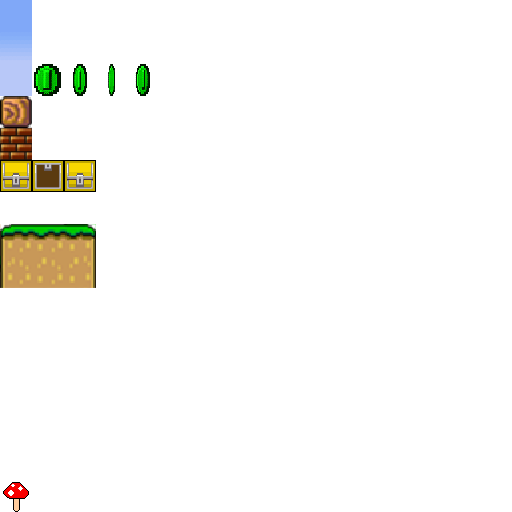
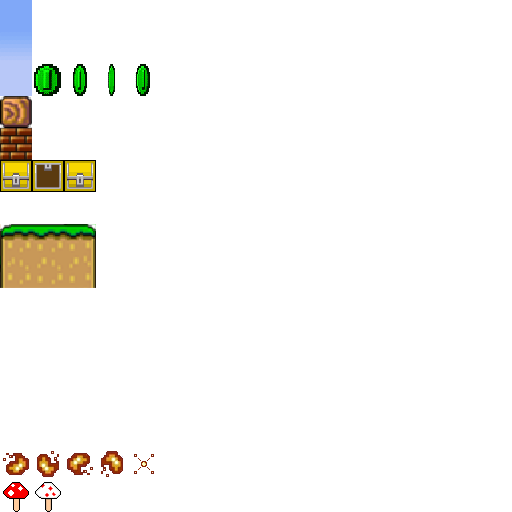
chapter38 appear fire kinoko and be fire mario.

Changed region(s): [[0.0, 0.875, 0.25, 1.0]]

diff --git a/main.js b/main.js
@@ -37,8 +37,8 @@ var gMapChip = [
   [255,255,255,255,255,255,255,255,255,255,255,255,255,64,64,255,255,255,64,64,255,255,255,255,255,255,64,255,64,255,255,255,255,255,255,64,255,255,255,64,255,255,255,255,64,255,255,255,255,64,255,255,255,64,255,255,64,64,255,255,255,64,64,255,255,255,255,255,255,64,255,64,255,255,255,255,255,255,64,255,255,255,64,255,255,255,255,255,255,255,255,255,255,255,255,255,255,255,255,255],
   [255,255,255,255,255,33,33,33,255,255,255,255,255,64,255,64,255,64,255,64,255,255,255,255,255,64,255,255,255,64,255,255,255,255,255,64,255,255,255,64,255,255,255,255,64,255,255,255,255,64,255,255,255,64,255,255,64,255,64,255,64,255,64,255,255,255,255,255,64,255,255,255,64,255,255,255,255,255,64,255,255,255,64,255,255,255,255,255,255,255,255,255,255,255,255,255,255,255,255,255],
   [255,255,255,255,255,255,255,255,255,255,255,255,255,64,255,255,64,255,255,64,255,255,255,255,64,255,255,255,255,255,64,255,255,255,255,64,64,64,64,64,255,255,255,255,64,255,255,255,255,64,255,255,255,64,255,255,64,255,255,64,255,255,64,255,255,255,255,64,255,255,255,255,255,64,255,255,255,255,64,64,64,64,64,255,255,255,255,255,255,255,255,255,255,255,255,255,255,255,255,255],
-  [255,255,255, 64,255,255,255,255,255,64,255,255,255,64,255,255,255,255,255,64,255,255,255,64,64,64,64,64,64,64,64,64,255,255,255,64,255,255,64,255,255,255,255,255,64,255,255,255,255,64,255,255,255,64,255,255,64,255,255,255,255,255,64,255,255,255,64,64,64,64,64,64,64,64,64,255,255,255,64,255,255,255,255,255,255,255,255,255,255,255,255,255,255,255,255,255,255,255,255,255],
-  [255,255,255,64,64,64,82,82,64,64,255,255,255,64,255,255,255,255,255,64,255,255,64,255,255,255,255,255,255,255,255,255,64,255,255,64,255,255,255,64,255,255,64,64,64,64,64,255,255,64,64,64,64,64,255,255,64,255,255,255,255,255,64,255,255,64,255,255,255,255,255,255,255,255,255,64,255,255,64,255,255,255,255,255,255,255,255,255,255,255,255,255,255,255,255,255,255,255,255,64],
+  [255,255,255,255,255,255,255,255,255,255,255,255,255,64,255,255,255,255,255,64,255,255,255,64,64,64,64,64,64,64,64,64,255,255,255,64,255,255,64,255,255,255,255,255,64,255,255,255,255,64,255,255,255,64,255,255,64,255,255,255,255,255,64,255,255,255,64,64,64,64,64,64,64,64,64,255,255,255,64,255,255,255,255,255,255,255,255,255,255,255,255,255,255,255,255,255,255,255,255,255],
+  [255,255,255,64,64,82,82,82,64,64,255,255,255,64,255,255,255,255,255,64,255,255,64,255,255,255,255,255,255,255,255,255,64,255,255,64,255,255,255,64,255,255,64,64,64,64,64,255,255,64,64,64,64,64,255,255,64,255,255,255,255,255,64,255,255,64,255,255,255,255,255,255,255,255,255,64,255,255,64,255,255,255,255,255,255,255,255,255,255,255,255,255,255,255,255,255,255,255,255,64],
   [255,255,255,255,255,255,255,255,255,255,255,255,255,255,255,255,255,255,255,255,255,255,255,255,255,255,255,255,255,255,255,255,255,255,255,255,255,255,255,255,255,255,255,255,255,255,255,255,255,255,255,255,255,255,255,255,255,255,255,255,255,255,255,255,255,255,255,255,255,255,255,255,255,255,255,255,255,255,255,255,255,255,255,255,255,255,255,255,255,255,255,255,255,255,255,255,255,255,255,255],
   [255,255,255,255,255,255,255,255,255,255,255,255,255,255,255,255,255,255,255,255,255,255,255,255,255,255,255,255,255,255,255,255,255,255,255,255,255,255,255,255,255,255,255,255,255,255,255,255,255,255,255,255,255,255,255,255,255,255,255,255,255,255,255,255,255,255,255,255,255,255,255,255,255,255,255,255,255,255,255,255,255,255,255,255,255,255,255,255,255,255,255,255,255,255,255,255,255,255,255,255],
   [255,255,255,255,255,255,255,255,255,255,255,255,255,255,255,255,255,255,255,255,255,255,255,255,255,255,255,255,255,255,255,255,255,255,255,255,255,255,255,255,255,255,255,255,255,255,255,255,255,255,255,255,255,255,255,255,255,255,255,255,255,255,255,255,255,255,255,255,255,255,255,255,255,255,255,255,255,255,255,255,255,255,255,255,255,255,255,255,255,255,255,255,255,255,255,255,255,255,255,255],
@@ -220,7 +220,9 @@ function Draw(){
   // chapter37
   drawBlock();
   changeMapAnim();
-  gMario.kinoko.draw(g_Ctx,gMapTex,gMario.mapScrollX)
+  gMario.kinoko.draw(g_Ctx,gMapTex,gMario.mapScrollX);
+  // chapter38
+  gMario.fireKinoko.draw(g_Ctx,gMapTex,gMario.mapScrollX);
   gMario.animateBlockCoin();
   gMario.animateBlock();
 }
@@ -351,6 +353,7 @@ function move(){
   gMario.update(gMapChip,gKuribos);
   enemyMove();
   gMario.kinoko.update(gMapChip,gMario);
+  gMario.fireKinoko.update(gMapChip,gMario);
 }
 
 function enemyMove(){

diff --git a/mario.js b/mario.js
@@ -57,6 +57,9 @@ function Mario(posX,posY){
   this.blockUpY = [0,0];				// 上昇ブロック用座標Y
   this.blockAttackIndexX = [0,0];		// ブロックを移動させる対象のブロックマップチップ番号X
   this.blockAttackIndexY = [0,0];		// ブロックを移動させる対象のブロックマップチップ番号Y
+  // chapter38
+  this.fireKinoko = new FireKinoko(0,0);
+  this.textureOffsetY = 0;
 }
 
 /*
@@ -66,10 +69,10 @@ function Mario(posX,posY){
 */
 Mario.prototype.draw = function(ctx,texture){
 	if(!this.isDead()) {
-		ctx.drawImage(texture, (this.animX * 32) + this.animOffsetX,(this.direction * this.height) + ((this.state - 1) * this.height),32,this.height,this.posX,this.posY,32,this.height);
+		ctx.drawImage(texture, (this.animX * 32) + this.animOffsetX,(this.direction * this.height) + this.textureOffsetY,32,this.height,this.posX,this.posY,32,this.height);
 	}
 	else {
-		ctx.drawImage(texture, (this.animX * 32) + this.animOffsetX,this.direction * this.height,32,this.height,this.posX,this.posY,32,this.height);
+		ctx.drawImage(texture, (this.animX * 32) + this.animOffsetX,this.direction * this.height + this.textureOffsetY,32,this.height,this.posX,this.posY,32,this.height);
 	}
 }
 
@@ -175,7 +178,7 @@ Mario.prototype.updateMapPositionX = function(posX){
 */
 Mario.prototype.updateMapPositionY = function(posY){
 	// キノコ状態の時と分ける
-	if(this.state == KINOKO_STATE){
+	if(this.isBig()){
 		// キノコ状態の時のマップチップ座標
 		this.upMapY = Math.floor(posY / MAP_SIZE);
 		// 通常よりもマップチップ一つ分多い
@@ -271,13 +274,23 @@ Mario.prototype.collisionY = function(map,posY){
         this.getCoin();
       }
 
-      // キノコブロックだった場合(chapter34)
+      // キノコブロックだった場合(chapter34&38)
       if(isKinokoBlock(map[this.upMapY][mapsX[i]])){
-        // キノコを出現させる
-        var kinokoX = mapsX[i] * MAP_SIZE;
-        // boxから出現させるようにする
-        var kinokoY = this.upMapY * MAP_SIZE;
-        this.kinoko.activate(kinokoX,kinokoY,LEFT_DIR);
+    	// when mario is big appear fire kinoko
+    	if(this.isBig()){
+    		// chapter38 appear fire kinoko
+	        var fireKinokoX = mapsX[i] * MAP_SIZE;
+	        // appeared from box
+	        var fireKinokoY = this.upMapY * MAP_SIZE;
+	        this.fireKinoko.activate(fireKinokoX,fireKinokoY);    		
+    	}
+    	else{
+	        // appear kinoko
+	        var kinokoX = mapsX[i] * MAP_SIZE;
+	        // boxから出現させるようにする
+	        var kinokoY = this.upMapY * MAP_SIZE;
+	        this.kinoko.activate(kinokoX,kinokoY,LEFT_DIR);		
+    	}
         // ボックスを空にする
         replaceEmptyBoxMap(map,mapsX[i],this.upMapY);
       }
@@ -438,6 +451,15 @@ Mario.prototype.getKinoko = function(){
 	this.state = KINOKO_STATE;
 	this.height = 64;
 	this.posY -= 32;
+	this.textureOffsetY = 64;
+}
+
+/**
+ * get fire kinoko action
+ */
+Mario.prototype.getFireKinoko = function(){
+	this.state = FIRE_STATE;
+	this.textureOffsetY = 192;
 }
 
 /**
@@ -510,7 +532,7 @@ Mario.prototype.blockAction = function(mapIndexX,mapIndexY,isUp,map){
 		this.blockAttackAddY[this.blockAttackIndex] = 8;
 	}
 	// 大きい場合は破壊可能
-	else if(this.state == KINOKO_STATE){
+	else if(this.isBig()){
 		// 空マップにする
 		replaceEmptyMap(map,mapIndexX,mapIndexY);
 		// アニメーションを仕込む
@@ -593,4 +615,16 @@ Mario.prototype.blockCollisionAction = function(kuribos){
 			}
 		}
 	}
+}
+
+/**
+ * judge big size mario
+ * 
+ * return:if big true
+ */
+Mario.prototype.isBig = function(){
+	if(this.state == KINOKO_STATE || this.state == FIRE_STATE){
+		return true;
+	}
+	return false;
 }

diff --git a/fireKinoko.js b/fireKinoko.js
@@ -1,0 +1,171 @@
+/**
+ * FireKinoko.js
+ * 
+ * chapter38
+ * don't move
+ * 
+ */
+
+function FireKinoko(posX,posY){
+	this.posX = posX;
+	this.posY = posY;
+	//  mapchip pos
+	this.rightMapX = 0;
+	this.leftMapX = 0;
+	this.upMapY = 0;
+	this.downMapY = 0;
+	this.height = 32;
+	this.state = INACTIVE;
+	// animation flag when appear
+	this.isFirstAnimation = true;
+	this.offsetY = 0;
+}
+
+/*
+	draw
+	
+	ctx:context
+	texture:img class
+	scrollX:X align scroll num
+*/
+FireKinoko.prototype.draw = function(ctx,texture,scrollX){
+	if(this.state != INACTIVE){
+		ctx.drawImage(texture, 32,480,32,this.offsetY,this.posX - scrollX,this.posY,32,this.offsetY);
+	}
+}
+
+/*
+	move event
+
+	moveNum:move amount
+*/
+FireKinoko.prototype.move = function(mapChip,moveNum){
+	// 動かないはずだが、マップチップの更新はしておく
+	this.updateMapPosition();
+}
+
+/**
+	update x align map pos
+
+	posX : target object x align pos
+*/
+FireKinoko.prototype.updateMapPositionX = function(posX){
+	// x座標
+	this.leftMapX = Math.floor(posX / MAP_SIZE);
+	this.rightMapX = Math.floor((posX + MAP_SIZE - 1) / MAP_SIZE);
+
+	// 配列外チェック
+	if(this.leftMapX >= MAX_MAP_CHIP_X){
+		this.leftMapX = MAX_MAP_CHIP_X - 1;
+	}
+	if(this.leftMapX < 0){
+		this.leftMapX = 0;
+	}
+	if(this.rightMapX >= MAX_MAP_CHIP_X){
+		this.rightMapX = MAX_MAP_CHIP_X - 1;
+	}
+	if(this.rightMapX < 0){
+		this.rightMapX = 0;
+	}
+}
+
+/**
+	update y align map pos
+
+	posX : target object y align pos
+*/
+FireKinoko.prototype.updateMapPositionY = function(posY){
+	// y
+	this.upMapY = Math.floor(posY / MAP_SIZE);
+	this.downMapY = Math.floor((posY + MAP_SIZE - 1) / MAP_SIZE);
+
+	// 配列外チェック
+	if(this.upMapY >= MAX_MAP_Y - 1){
+		this.upMapY = MAX_MAP_Y - 1;
+	}
+	if(this.upMapY < 0){
+		this.upMapY = 0;
+	}
+	if(this.downMapY >= MAX_MAP_Y - 1){
+		this.downMapY = MAX_MAP_Y - 1;
+	}
+	if(this.downMapY < 0){
+		this.downMapY = 0;
+	}
+}
+
+/**
+	update x and y mapchip pos
+*/
+FireKinoko.prototype.updateMapPosition = function(){
+	this.updateMapPositionX(this.posX);
+	this.updateMapPositionY(this.posY);
+}
+
+/*
+  collision with mario
+
+  map:MapChip array
+  mario:Mario class
+*/
+FireKinoko.prototype.collisionWithMario = function(map,mario){
+  if(!mario.isDead()){
+    // x軸
+    if(mario.moveNumX < this.posX + 32 && mario.moveNumX + 32 > this.posX)
+    {
+      // マリオの上とキノコの下(キノコは32*32で切り取られているので、最下部は32+される)
+      if(mario.posY < this.posY + 32){
+        // マリオの下とキノコの上
+        if(mario.posY + mario.height > this.posY + (32 - this.height)){
+          // マリオを大きくする処理を書く
+          this.state = INACTIVE;
+          // マリオを大きくする処理
+          mario.getFireKinoko();
+        }
+      }
+    }
+  }
+}
+
+/**
+ * update function
+ * map:mapchip array
+ * mario:mario class
+ */
+FireKinoko.prototype.update = function(map,mario){
+	if(this.state != INACTIVE){
+		// animation when appear
+		if(this.isFirstAnimation){
+			this.appearingAnimation();
+		}
+		else{
+			this.move(map,2);
+		}
+		this.collisionWithMario(map,mario);
+	}
+}
+
+/**
+  activate kinoko
+
+  posX:appear location x
+  posY:appear location y
+*/
+FireKinoko.prototype.activate = function(posX,posY){
+  this.posX = posX;
+  this.posY = posY;
+  this.state = NORMAL_STATE;
+  this.isFirstAnimation = true;
+  this.offsetY = 0;
+}
+
+/**
+ * animate kinoko first appear
+*/
+FireKinoko.prototype.appearingAnimation = function(){
+	this.posY -= 1;
+	this.offsetY += 1;
+	if(this.offsetY == 32){
+		this.isFirstAnimation = false;
+	} 
+}

diff --git a/const.js b/const.js
@@ -24,6 +24,8 @@ var INACTIVE = -1;
 // chapter27
 var NORMAL_STATE = 1;
 var KINOKO_STATE = 2;
+// chapter38
+var FIRE_STATE = 3;
 var DEAD_ACTION = 100;
 var DEAD = 101;
 // chapter28
